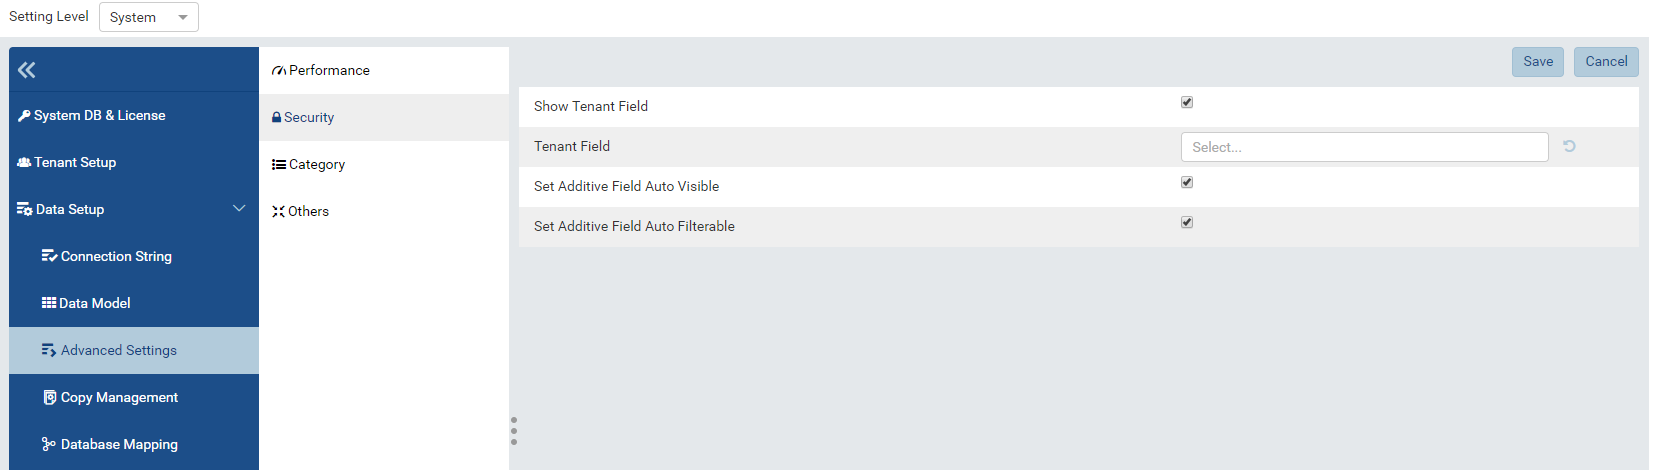
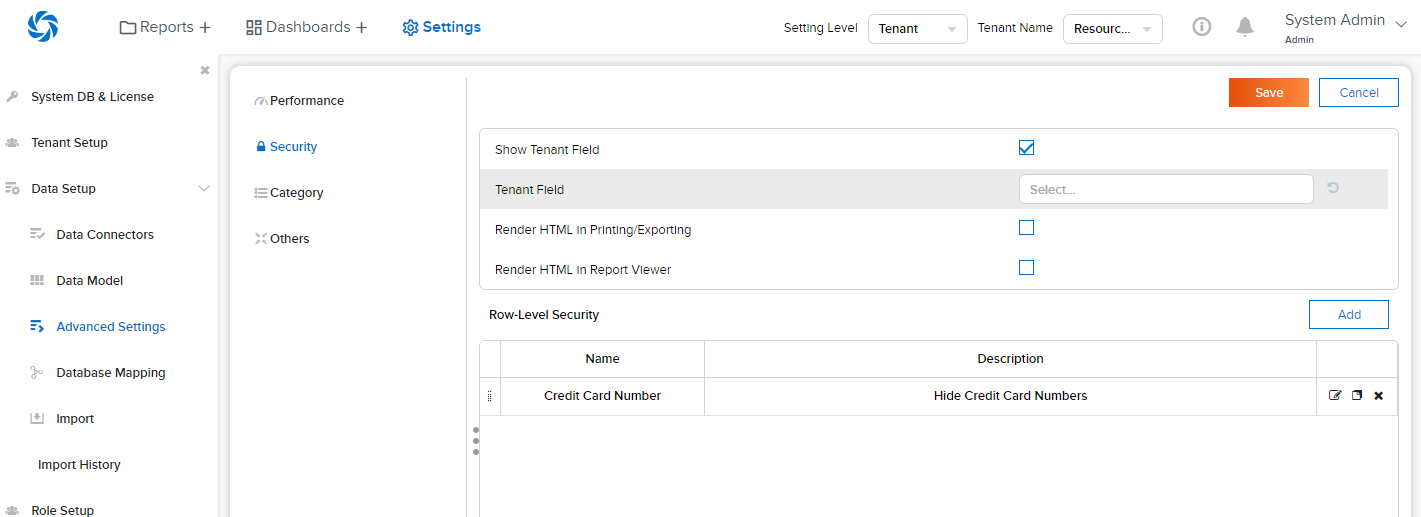
IZ-28526: Added documentation for PII/Data Security feature.

diff --git a/ui/doc_advanced_settings.rst b/ui/doc_advanced_settings.rst
@@ -81,11 +81,11 @@ In Advanced Settings page, click on Security tab in Middle Panel to view the ite
 
    .. figure:: /_static/images/Advanced_Settings_Sercurity.PNG
       :align: center
-      :width: 1657px
+      :width: 1421px
 
       Setting values provied in Security tab
 
-Update settings in Tenant group
+Update common settings
 ***********************************
 
    *  Tick on Show Tenant Field checkbox will show the field(s) which is(are) sepcififed in Tenant Field in report/dashboard. Otherwise, those fields will be hidden.
@@ -97,14 +97,67 @@ Update settings in Tenant group
       \- Press **Enter** to add tenant field  |br|
       \- You can use multiple tenant fields 
 
-   .. _Update_settings_in_Security_Additive_Fields_group:
+   * Tick on Render HTML in Printing/Exporting checkbox will allow HTML tags to be rendered when exporting and printing.
 
-Update settings in Additive Fields group
-********************************************
+   * Tick on Render HTML in Report Viewer checkbox will allow HTML tags to be rendered when viewing reports in browser.
 
-   * Tick on **Set Additive Field Auto Visible** will automatically set the additive field when physical data model changes as Visible
-   * Tick on **Set Additive Field Auto Filterable** will automatically set the additive field when physical data model changes as Filterable
+Add Row-Level security rules
+***********************************
 
+   #. In browser, log in to Izenda as a System Admin and go to Settings, then Data Setup, Advanced Settings in the left
+      menu, and Security in the middle panel.
+   #. Click Add button in Row-Level Security section
+
+      .. figure:: /_static/images/data_security/data_security_001.PNG
+         :width: 940px
+
+   #. Choose one or more available data sources and click Next to go to Step 2
+
+      .. figure:: /_static/images/data_security/data_security_002.PNG
+         :width: 896px
+
+   #. Choose one or more available fields and click Next to go to Step 3
+
+      .. figure:: /_static/images/data_security/data_security_003.PNG
+         :width: 896px
+
+   #. Type Name and Descitption (optional) for the data security rule set.
+   #. Click Add Rule and configure new data security rule.
+   #. Select one of the existing User Groups (Everyone, User or Role)
+
+      .. figure:: /_static/images/data_security/data_security_004.PNG
+         :width: 896px
+
+   #. Select some specific users or roles if you selected the corresponding values in the previous step.
+   #. Type any value and press Enter to Values or select one of the preset values like
+      - [All] - all values
+      - [Tenant ID] - the current Tenant ID
+      - [Tenant Name] - the current Tenant Name
+      - [Role Name] - any role name of the current user
+      - [User ID] - the current User ID
+   #. Select access mode: Block or Allow
+
+      .. figure:: /_static/images/data_security/data_security_005.PNG
+         :width: 896px
+
+   #. Add more rules if necessary.
+   #. Click Save and then OK  on the pop-up info message about the impact of the current changes
+
+      .. figure:: /_static/images/data_security/data_security_006.PNG
+         :width: 872px
+
+   #. Add more data security rule sets if necessary or edit/clone/delete some of the existing rule sets.
+   #. Click Save at the top-right corner to save security settings
+
+      .. figure:: /_static/images/data_security/data_security_007.PNG
+         :width: 938px
+
+   |br|
+
+   After that, if you create a new report with fields to which blocking rules are applied or open an existing one, and print or export it, then you will see masked data instead of the actual values
+
+      .. figure:: /_static/images/data_security/data_security_008.PNG
+         :width: 631px
 
 Update Categories Settings
 ---------------------------
@@ -227,7 +280,7 @@ In Advanced Settings page, click on Others tab in Middle Panel to view the items
             In database the data value is 11:00. If user sets “5” in the textbox of this section then the data value will be shown as 16:00 in the report part.
          -  0
       *  -  Timezone for Timestamp Offset
-         -  To set default value for the Timezone Data Offset in Settings > User Setup page. And this setting will effect to all Datetime/Time field in system. **As of v2.9.5 offset will accept partial hours as .25, .5 or .75**|br|
+         -  To set default value for the Timezone Data Offset in Settings > User Setup page. And this setting will effect to all Datetime/Time field in system. **As of v2.9.5 offset will accept partial hours as .25, .5 or .75** |br|
             For example: |br|
             The created date of report is 11:00. If user sets “5” in the textbox of this section then the created date will be shown as 16:00 in the system. 
          -  0
